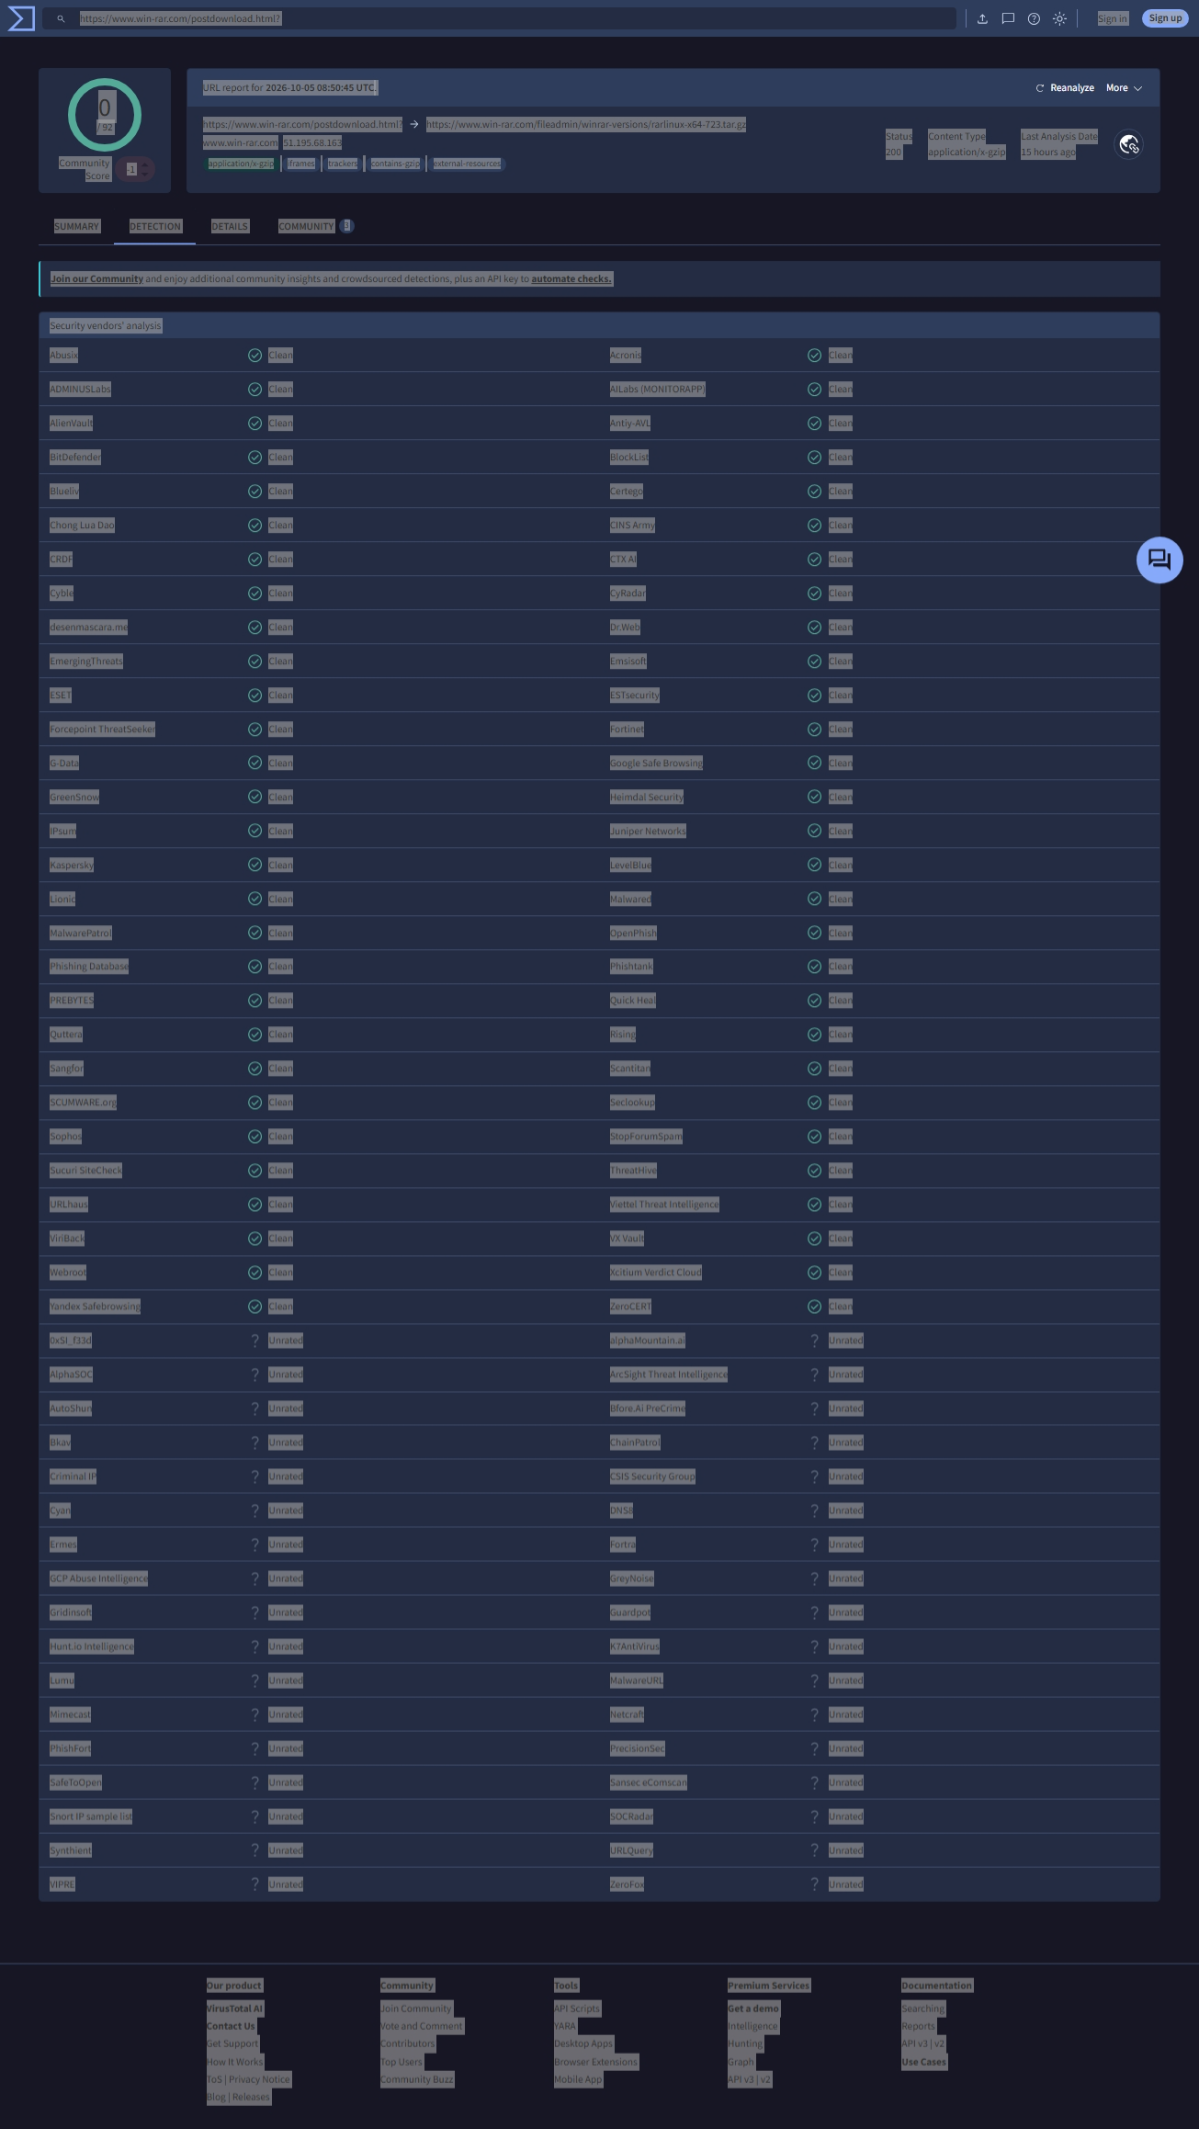
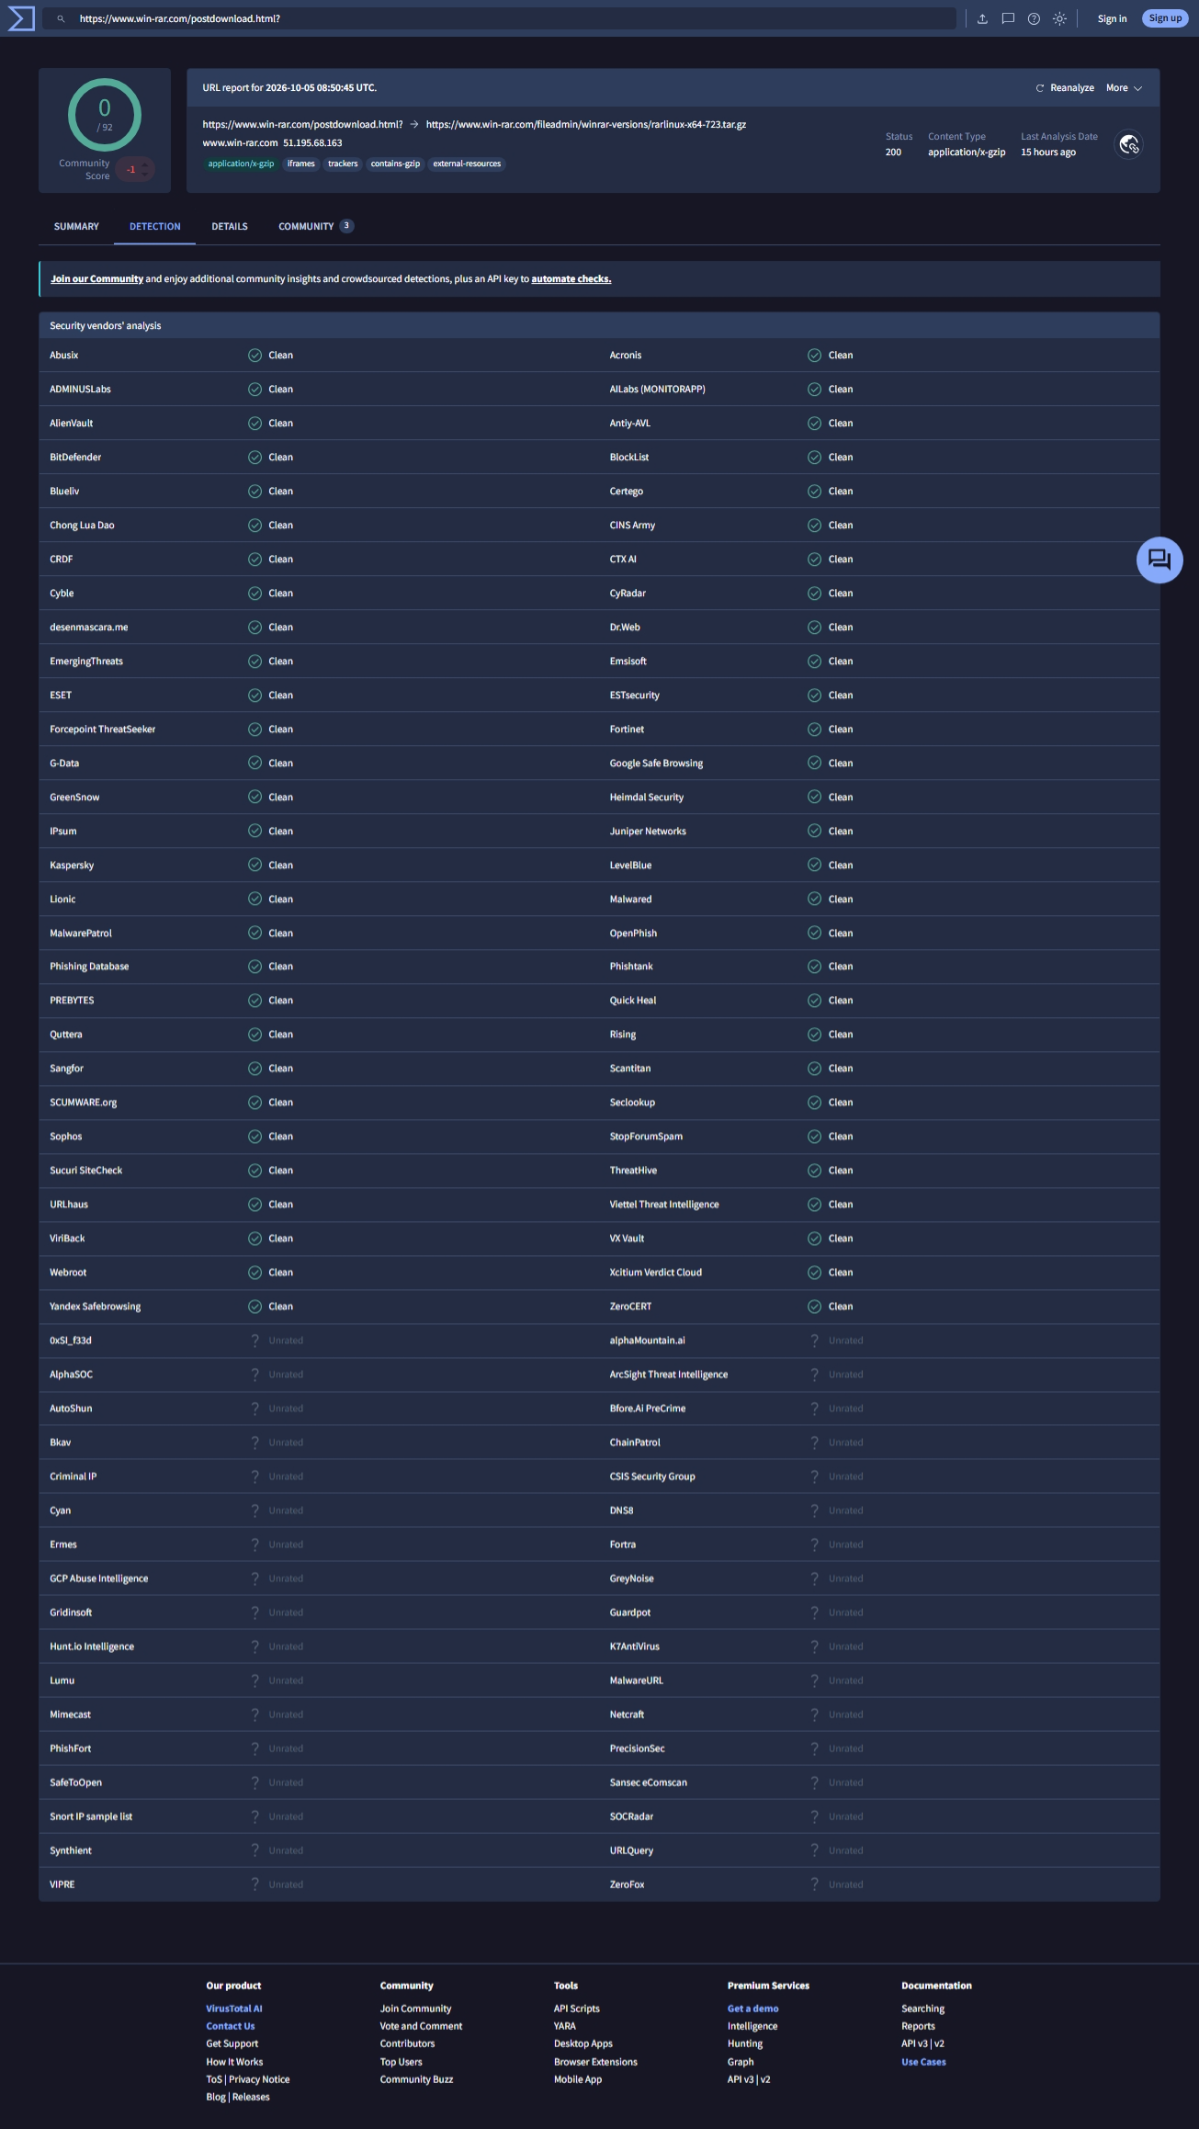
Add SOC119 investigation write-up (False Positive)

diff --git a/investigations/soc119-malicious-executable-file-detected/SOC119-Malicious-Executable-File-Detected.md b/investigations/soc119-malicious-executable-file-detected/SOC119-Malicious-Executable-File-Detected.md
@@ -197,16 +197,3 @@ I did not change the verdict. It is based on the evidence above, and I am record
 5. **Match logs to the alert, not to similar-looking ones.** The OS log came from a different host (172.16.17.59 vs 172.16.17.5), a different user and a different year. It is baseline context, not evidence for this incident.
 
 ---
-
-## 8. Evidence index
-
-| # | File | Shows |
-|---|---|---|
-| 1 | `images/01-alert-details.png` | Alert fields |
-| 2 | `images/02-log-management-raw-logs.png` | Proxy log and OS log for `win-rar.com` |
-| 3 | `images/03-endpoint-processes.png` | Endpoint – Processes (Agent Down) |
-| 4 | `images/04-endpoint-browser-history.png` | Endpoint – Browser History (Agent Down) |
-| 5 | `images/05-virustotal-url.png` | VirusTotal URL report, 0/92 |
-| 6 | `images/06-virustotal-ip.png` | VirusTotal IP report, 0/91 |
-| 7 | `images/07-case-report-false-positive.png` | Playbook answers, result and analyst note |
-| 8 | `images/08-closed-alert-view.png` | Closed Alerts view (label discrepancy) |
